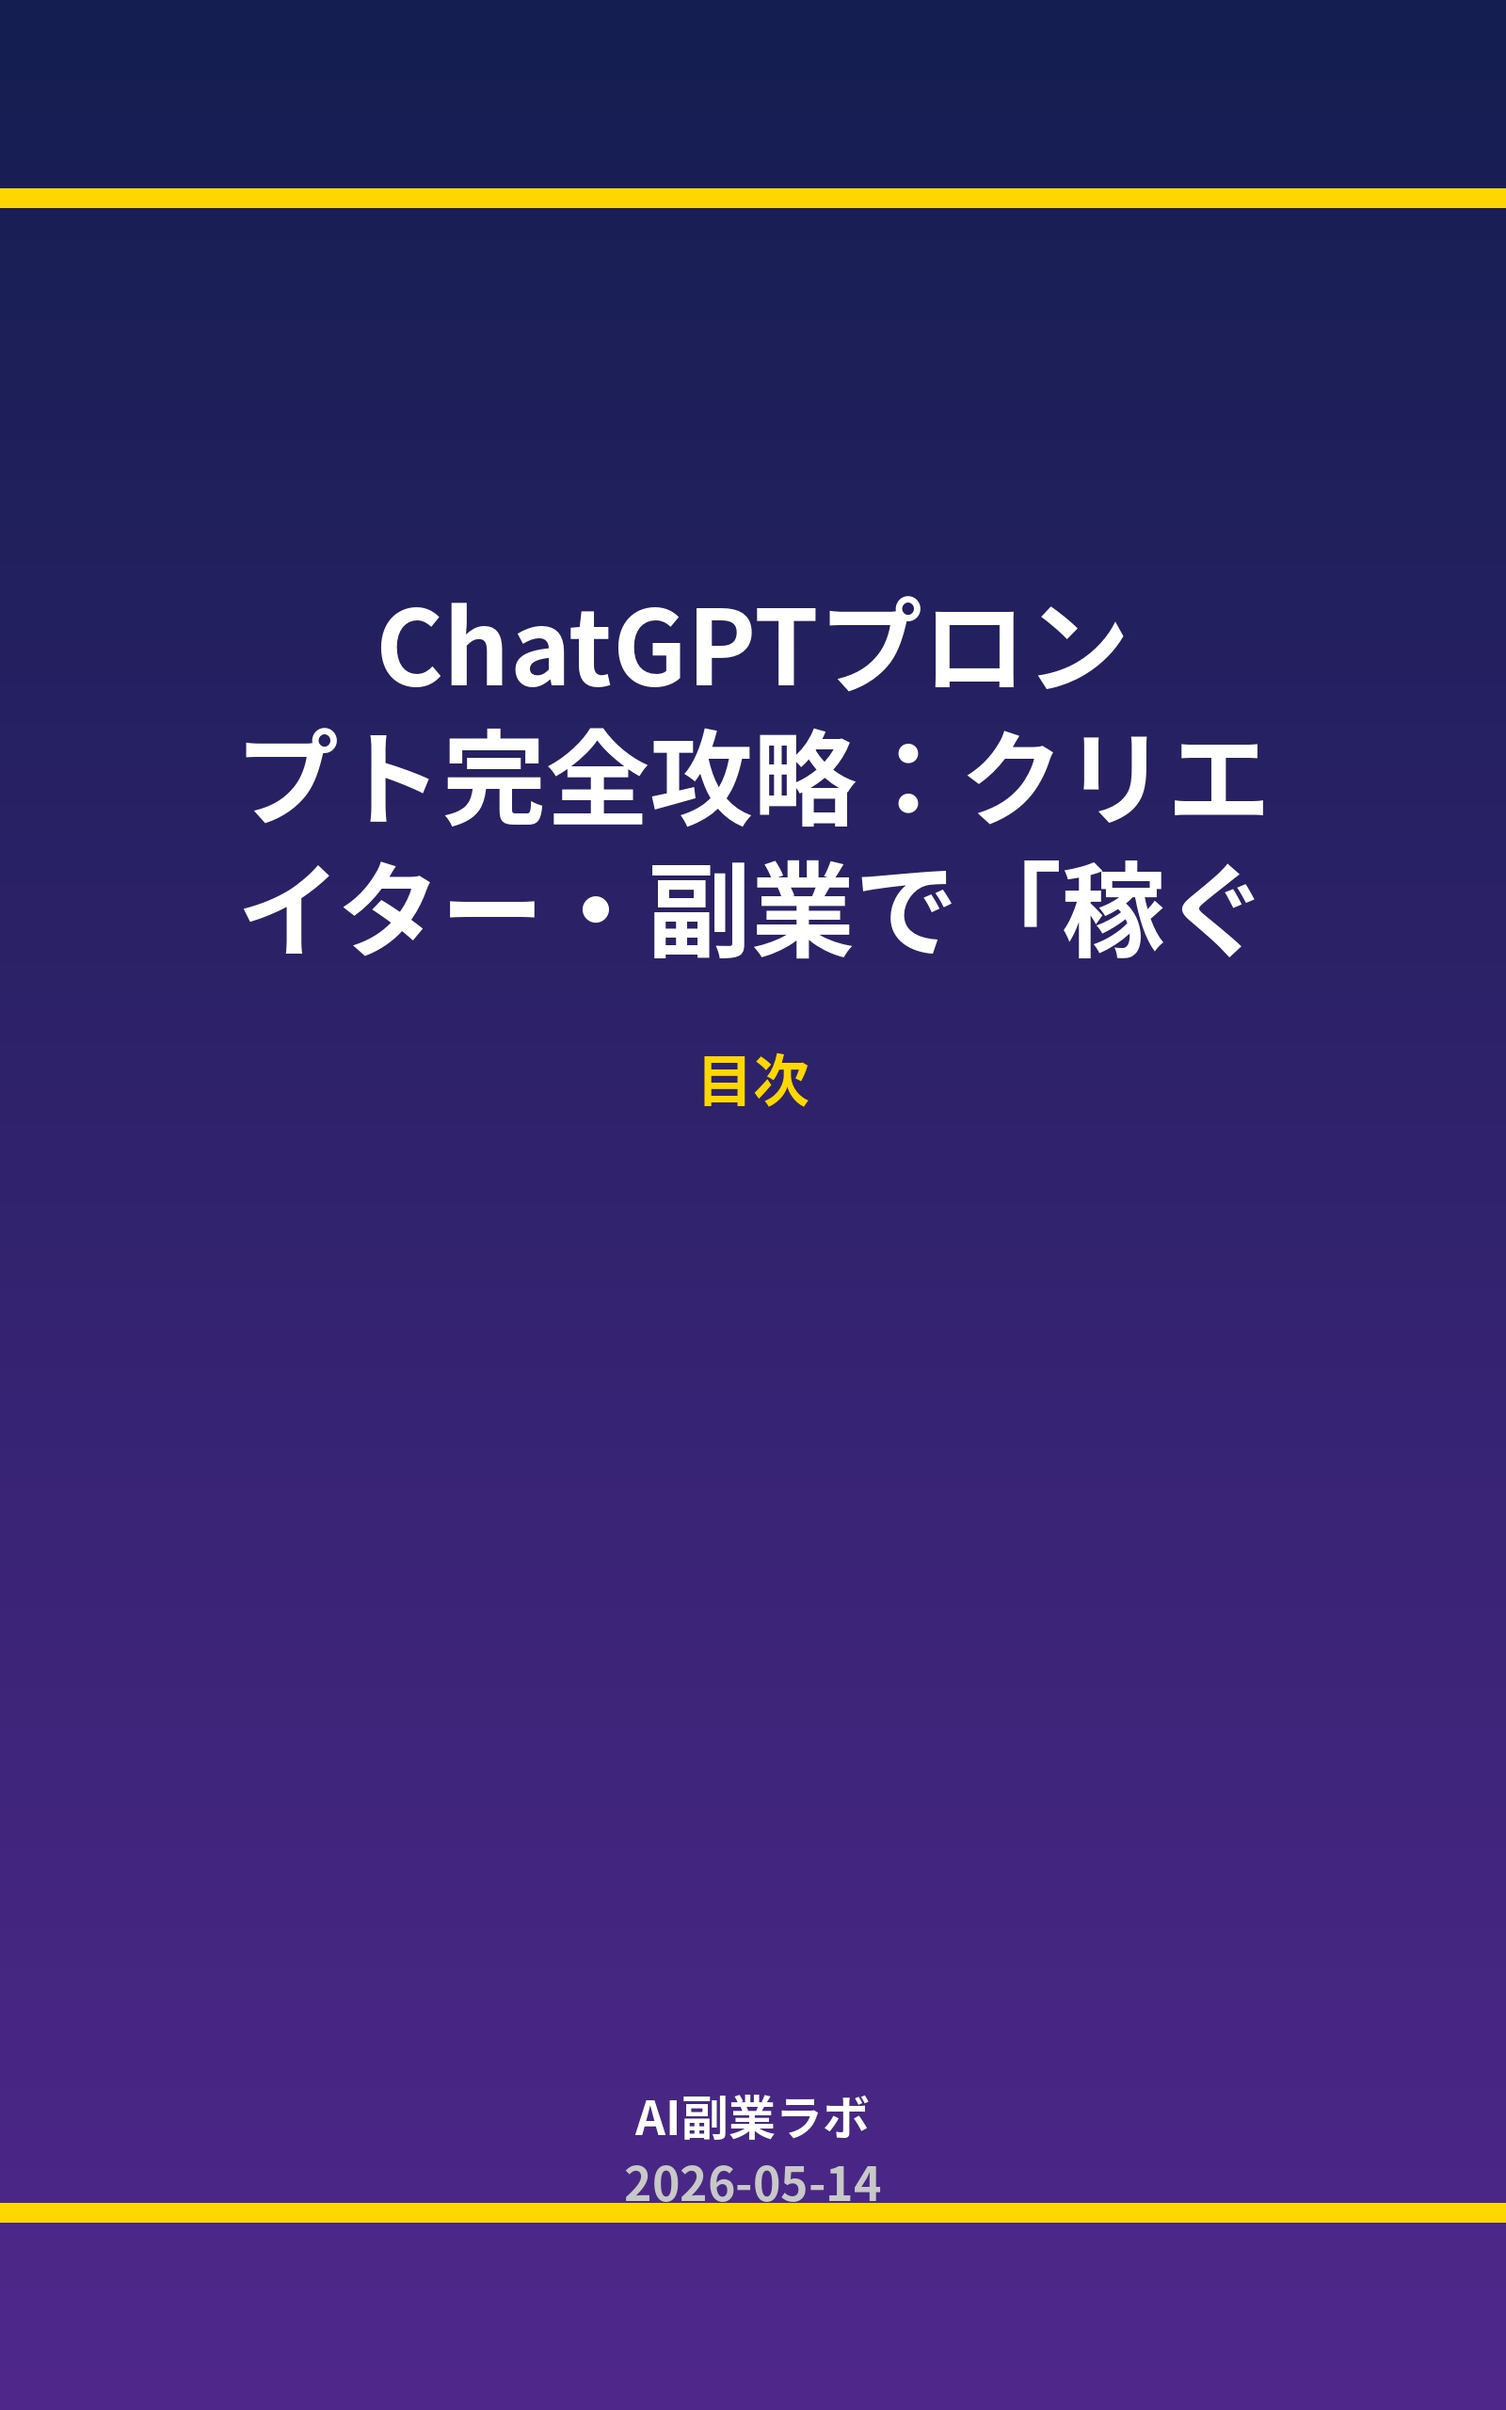
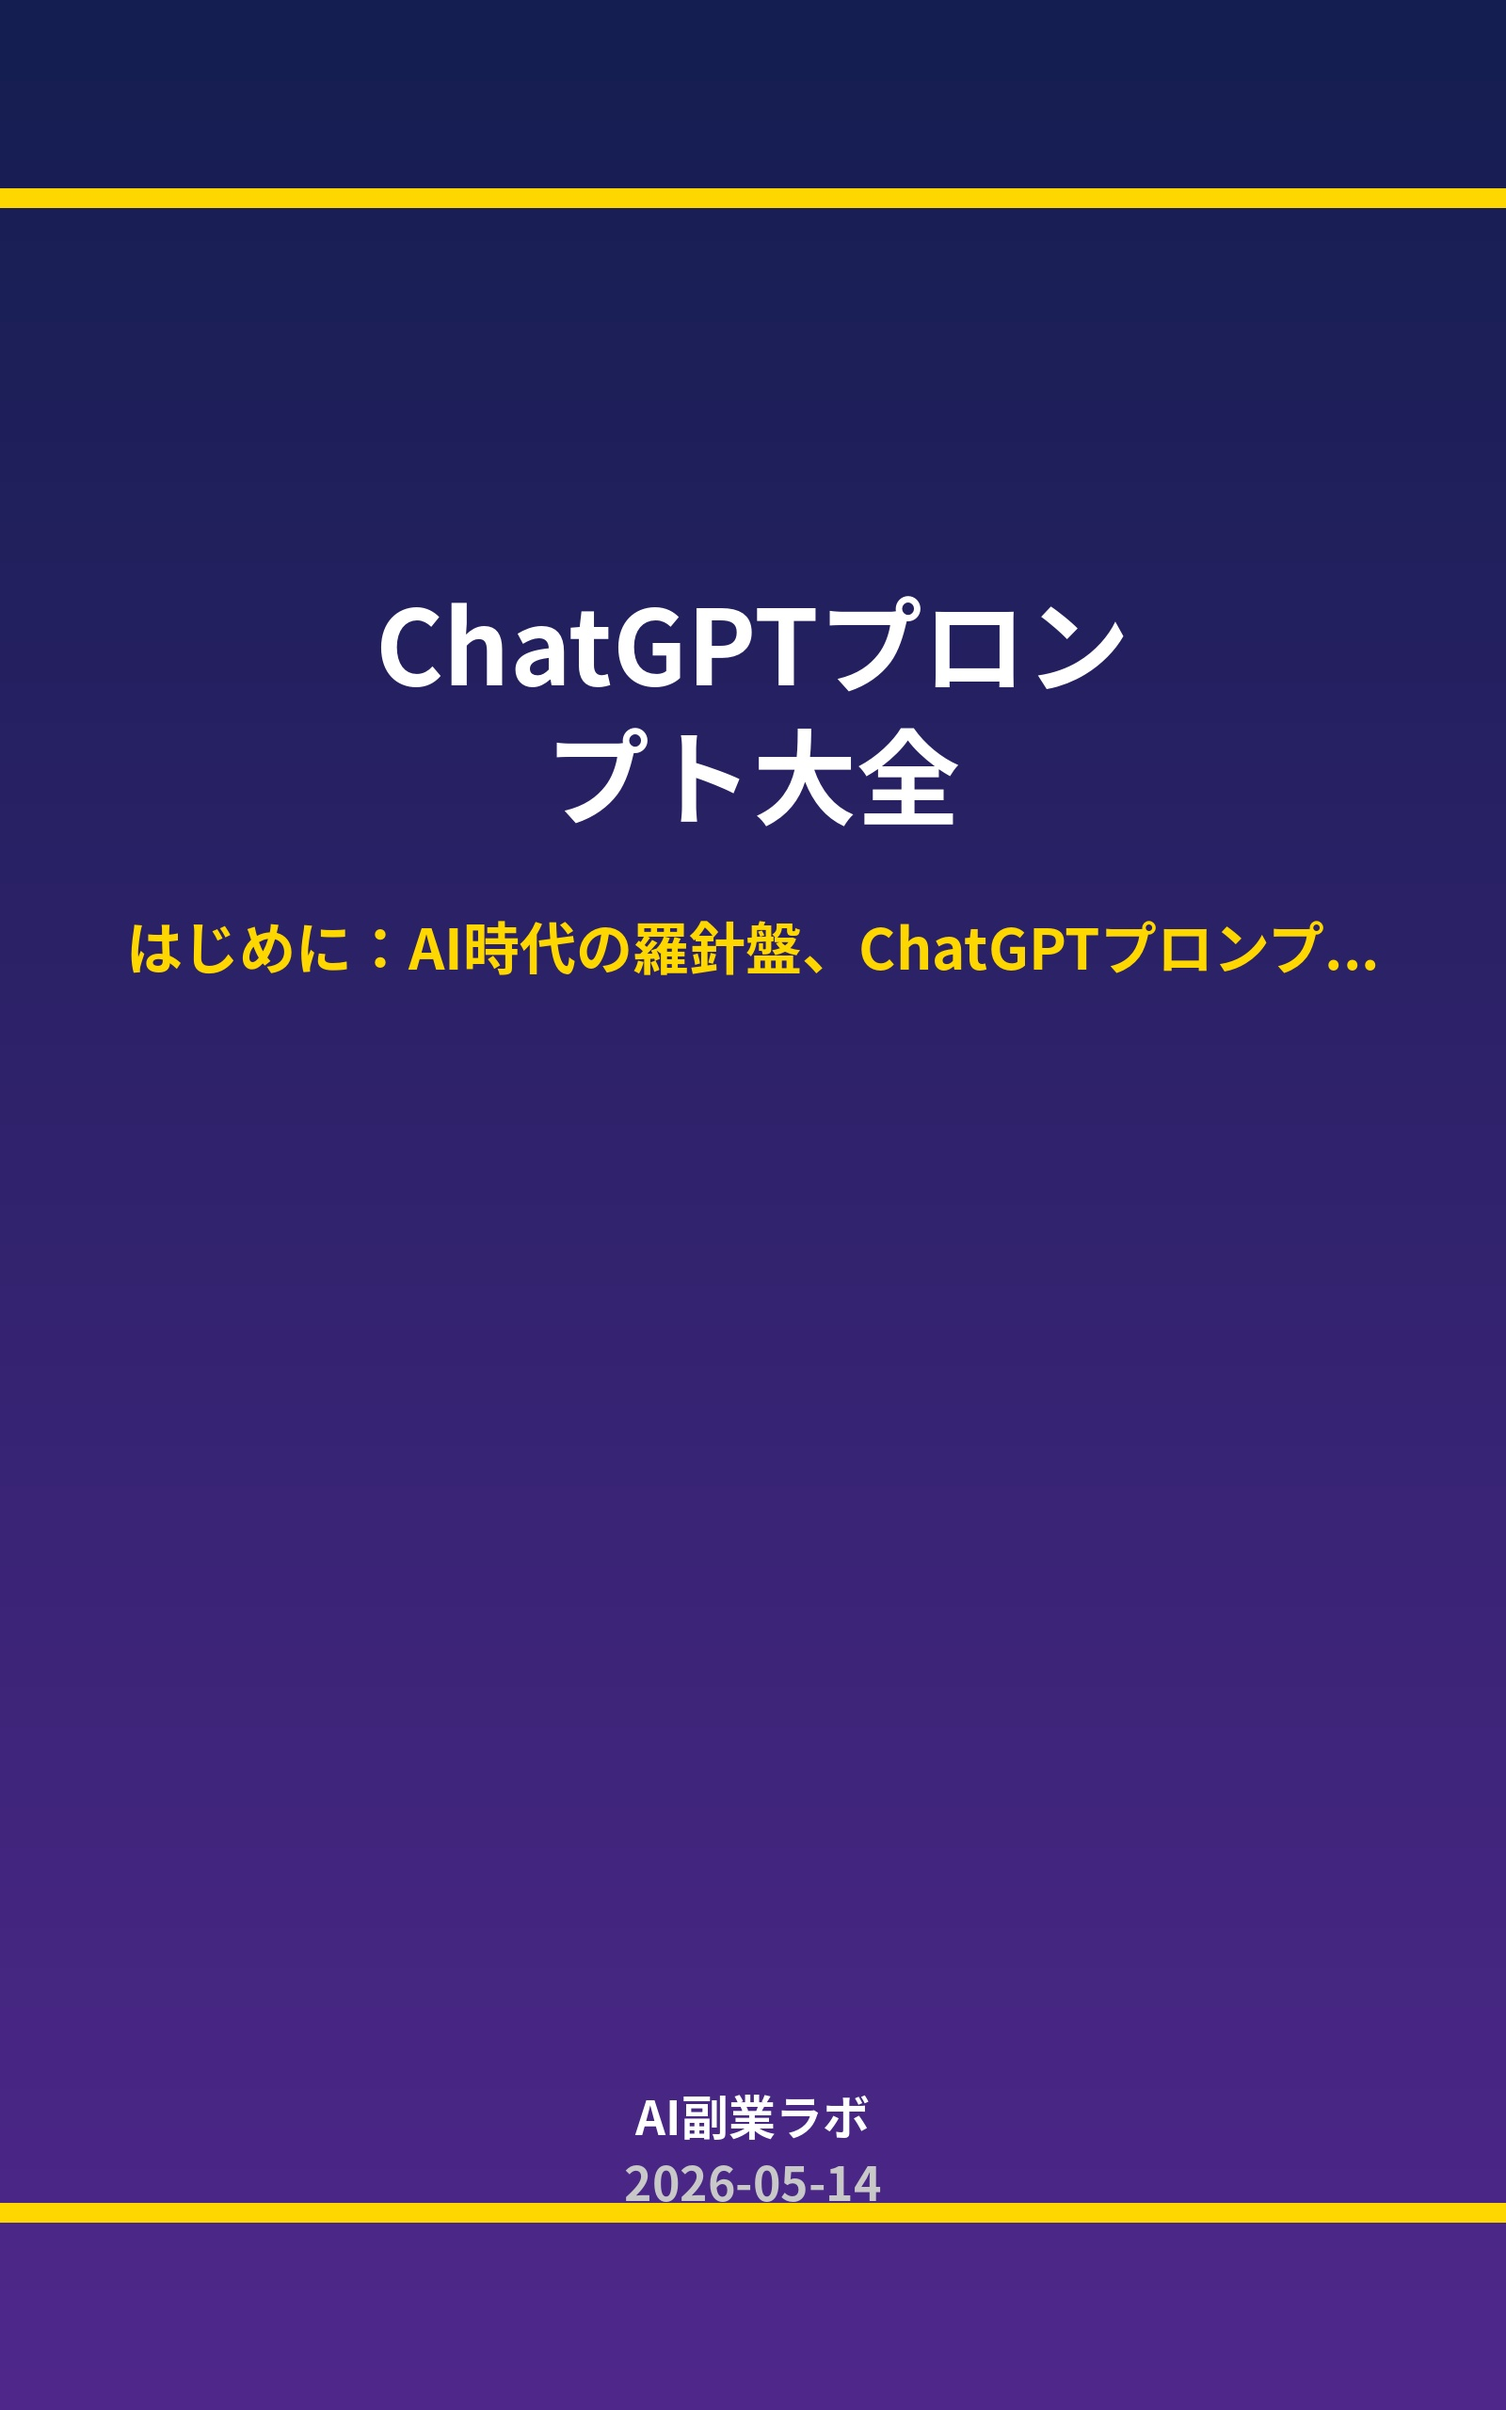
Kindle出版準備: 2026-05-14

Changed region(s): [[0.0625, 0.2812, 0.875, 0.4062], [0.4688, 0.4375, 0.5312, 0.4688]]

diff --git a/Kindle出版/2026-05-14/メタデータ.md b/Kindle出版/2026-05-14/メタデータ.md
@@ -5,64 +5,69 @@
 ---
 
 ## タイトル
-ChatGPTプロンプト完全攻略 2026年版: AIで「稼ぐ」クリエイター・副業の実践ロードマップ
+ChatGPTプロンプト大全: 副業・クリエイターのためのAI活用術
 
 ## サブタイトル
-【次世代ChatGPT5.0対応】AI時代の働き方を革新するプロンプトエンジニアリング入門。アイデア出しから企画、コンテンツ作成、収益化まで、クリエイター・副業で月5万以上「稼ぐ」ための具体的なロードマップと実践テクニックを網羅。未経験からでもAIを「相棒」にして成功する未来を掴む！
+AI時代の羅針盤。仕事、副業、創作を劇的に変えるChatGPT5.0プロンプト活用術。アイデア無限生成、作業効率化、収益向上を加速する実践ガイド。
 
 ## 著者名
-AI副業ラボ
+AI副業実践ラボ
 
 ## 書籍の説明
+2026年5月、私たちは「AIネイティブ」と呼ばれる新しい時代の入り口に立っています。特に、目覚ましい進化を遂げたChatGPT5.0をはじめとする生成AIは、私たちの仕事、生活、そして創造性のあり方を根本から変革しています。
 
-「AIに仕事が奪われる」と不安を感じていませんか？
-「ChatGPTを導入したものの、使い方がよく分からない」「もっと効果的にAIを活用して収入を増やしたい」と思っていませんか？
+あなたはAIの進化に不安を感じていませんか？
+「AIに仕事を奪われるのではないか」「ChatGPTを使いこなせない」「アイデアが枯渇してしまう」「副業でなかなか稼げない」「日常業務の効率が上がらない」――。
+そんな悩みを抱えるクリエイターや副業を目指す方にとって、本書は「AI時代の羅針盤」となるでしょう。
 
-2026年、AIの進化は加速し、私たちの働き方、そして「稼ぎ方」は劇的に変化します。特に、次世代LLM「ChatGPT5.0」の登場は、クリエイターや副業で収入を得たいと考えている方にとって、まさに「思考の拡張」と「生産性の爆発」をもたらす大きなチャンスです。
+本書「ChatGPTプロンプト大全」は、この強力なAIを最大限に活用するための「プロンプトエンジニアリング」に特化しています。単なるツールの操作方法に留まらず、「いかにChatGPTを自分の思考の拡張装置、あるいは強力なアシスタントとして機能させるか」という視点から、基礎から応用、さらには倫理的な側面や未来予測まで、網羅的に解説します。
 
-本書は、そんなAI時代の変化を味方につけ、ChatGPTプロンプトを駆使してクリエイター・副業で実際に「稼ぐ」ための実践的なロードマップを提供します。
+「稼ぐ」「効率化」「実践」の3つの柱に焦点を当て、AIを「最高のビジネスパートナー」として迎え入れ、あなたのクリエイティブな未来、そして豊かな副業ライフを拓くための具体的な方法を提供します。
 
-**【本書で得られること】**
+**本書であなたは以下の能力を習得し、劇的な変化を体験できます。**
 
-*   **AI時代の必須スキル「プロンプトエンジニアリング」を完全マスター**: 高品質なアウトプットを安定して生成する技術を基礎から応用まで徹底解説。
-*   **アイデアの枯渇から解放され、創造性を爆増させる**: ChatGPTを相棒に、無限のアイデアと効率的な企画・リサーチを実現。
-*   **作業時間を劇的に短縮し、業務効率を最大化**: ブログ記事、SNS投稿、セールスコピー、企画書など、あらゆるコンテンツ作成をAIで高速化。
-*   **未経験から月5万円以上稼ぐ副業ロードマップ**: AIライター、コンテンツクリエイターとして収益を上げる具体的な戦略と案件獲得術を伝授。
-*   **既存ビジネスの効率化と新たな収益モデルの構築**: AIを活用したデジタルプロダクト販売や情報キュレーションサービスなど、自動化・半自動化による稼ぎ方を提案。
-*   **未来を拓くAIとの共創マインドセット**: AIの倫理、著作権、進化し続けるAIへの適応力、そして人間にしかできない「創造性」と「共感」の追求。
+*   **思考の拡張とアイデアの無限生成**: アイデア枯渇から解放され、常に新しい価値を生み出す力を手に入れる。
+*   **作業の劇的効率化**: リサーチ、下書き、構成作成など、時間のかかるタスクをAIに任せ、創造的な活動に集中する。
+*   **スキルと収益の向上**: AIを使いこなし、自身のコンテンツ制作能力を高め、副業での収入源を確立・拡大する。
+*   **AI時代の未来への適応**: AIとの共存に必要な知識と倫理観を身につけ、変化の激しい時代を生き抜く力を養う。
 
-**【本書の構成】**
+**各章の紹介：**
 
-*   **はじめに**: 2026年、AIが変えるクリエイター・副業の未来と、プロンプトスキルが必須である理由。
-*   **第1章：AI時代の働き方革命とプロンプトエンジニアリングの重要性**: ChatGPT5.0がもたらす変化、プロンプトエンジニアリングの定義と市場価値を解説。
-*   **第2章：ChatGPTプロンプト基礎講座：思考を拡張する基本ルール**: 良いプロンプトの3原則（明確性・具体性・目的性）と7つの主要要素を学び、効果的な思考法を習得。
-*   **第3章：【実践編】クリエイター・副業向けプロンプト活用テクニック**: コンテンツライティング、アイデア出し、企画・リサーチ、その他クリエイティブ業務での具体的なプロンプト例と活用術を多数紹介。
-*   **第4章：【応用編】ChatGPTで収益を最大化する戦略と具体例**: 未経験から月5万円稼ぐ副業ロードマップ、AIライターとしての稼ぎ方、既存ビジネスの効率化、AIを活用した収益モデル構築法を詳述。
-*   **第5章：未来を拓くAIとの共創：進化し続けるプロンプトエンジニアリング**: AIの倫理と著作権、マルチモーダルAIなど未来の動向、AI時代に求められるマインドセットを考察。
+*   **第1章：ChatGPTがもたらす革命とプロンプトの力**
+    AIネイティブ時代のクリエイター・副業の未来を展望し、ChatGPT5.0の現在地と、プロンプト活用がなぜ必須スキルなのかを解説します。
+*   **第2章：【基礎編】プロンプトエンジニアリングの基本原則とChatGPTの対話術**
+    良いプロンプトの3原則（明確性、具体性、目的性）や、ChatGPTとの効果的な対話サイクルを学び、失敗事例から改善策を導き出します。
+*   **第3章：【実践編】クリエイティブワークを加速するプロンプト集**
+    ブログ記事、SNS投稿、メールマガジン、WebサイトのLP作成など、高品質なコンテンツを生み出すライティング効率化プロンプトを多数紹介。アイデア出し、企画書作成、SEOキーワード選定、デザインコンセプト生成まで、クリエイティブワークを劇的に加速する具体的なプロンプト集です。
+*   **第4章：【応用編】副業で「稼ぐ」ためのChatGPT活用戦略**
+    デジタルコンテンツ販売、有料note記事作成、フリーランス案件獲得のための提案書・見積書作成、新規サービス開発、時間管理・生産性向上など、副業で収益を最大化するための実践的なAI活用術を伝授します。
+*   **第5章：【上級編】プロンプトエンジニアリングの深化とAI時代の未来**
+    Few-shot Learning、Chain-of-Thought（CoT）、Persona Prompting、RAGといった高度なプロンプトテクニックでAIの潜在能力を最大限に引き出します。さらに、効果的なプロンプト改善サイクル、AI倫理、著作権、ハルシネーションへの対処法、そしてAIに仕事を奪われないための人間ならではの強みの磨き方まで、AI時代の未来を生き抜くための知恵を網羅します。
 
-**【こんな方におすすめです】**
+**本書はこんな方におすすめです。**
 
-*   ChatGPTを使いこなして仕事の生産性を爆発的に高めたいクリエイター
-*   副業を始めたいが、何をどうすればいいか分からない方
-*   AIの進化に不安を感じず、むしろその波に乗って稼ぎたいと考えている方
-*   ブログ、SNS、企画書作成など、コンテンツ作成の効率化を目指したいビジネスパーソン
-*   AIを「ツール」ではなく「ビジネスパートナー」として収益化したい方
-*   AI時代のキャリア戦略を具体的に描きたいすべての人
+*   ChatGPTを「単なるチャットボット」で終わらせたくないクリエイター
+*   副業で収益を上げたい、または既存の副業を効率化したい方
+*   アイデア枯渇に悩むコンテンツクリエイター、ブロガー、ライター
+*   リサーチや資料作成に時間を取られすぎているビジネスパーソン
+*   AI時代に「仕事を奪われる」ではなく「AIを使いこなす側」になりたい方
+*   新しいサービスや事業のアイデア創出にAIを活用したい経営者、起業家
+*   プロンプトエンジニアリングの基礎から応用まで体系的に学びたい方
 
-AIの進化は止まりません。この書籍を手に取り、ChatGPTを最高の相棒として、あなたの「稼ぐ力」を最大化しましょう。未来は、待つものではなく、自ら創り出すものです。さあ、AI時代の新たな成功ロードマップを歩み始めましょう！
+AIを恐れるのではなく、最高の相棒として迎え入れ、あなたのクリエイティブな未来、そして豊かな副業ライフを拓きましょう。本書が、そのための羅針盤となることを心から願っています。
 
 ## キーワード（7個）
-1. ChatGPT プロンプト
-2. AI 副業 稼ぐ
-3. クリエイター AI活用
+1. ChatGPTプロンプト活用術
+2. AI活用 副業
+3. クリエイター 効率化
 4. プロンプトエンジニアリング
-5. コンテンツ作成 AI
-6. 生産性向上 ロードマップ
-7. チャットGPT 実践
+5. AI時代の稼ぎ方
+6. 生成AI 実践
+7. ライティング自動化
 
 ## カテゴリー（2つ）
-1. ビジネス・経済 > 副業・起業
-2. コンピュータ・IT > 人工知能・AI
+1. ビジネス・経済 > 副業・個人事業主
+2. コンピュータ・IT > AI・機械学習
 
 ## 推奨価格
 ¥880
